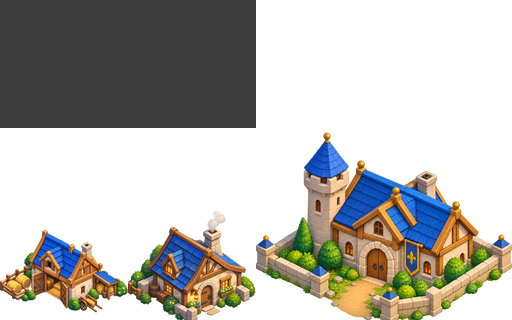
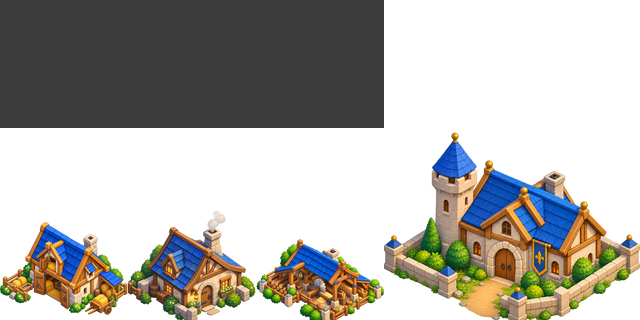
art(city): Sawmill, and a Farm that fits its plot

diff --git a/Docs/art/city/scene.html b/Docs/art/city/scene.html
@@ -46,7 +46,7 @@ code{font-family:ui-monospace,monospace;font-size:.92em}
 </style></head><body class="">
 <header>
   <h1>Kingdom — the isometric city set</h1>
-  <span class="meta">2:1 · tile 128×64 · <strong id="n">3/22</strong> sprites</span>
+  <span class="meta">2:1 · tile 128×64 · <strong id="n">4/22</strong> sprites</span>
   <span class="ctl">
     <button id="m1" aria-pressed="true">Showcase</button>
     <button id="m2" aria-pressed="false">Village</button>
@@ -102,7 +102,7 @@ code{font-family:ui-monospace,monospace;font-size:.92em}
       <figcaption>Sanctum<em>1×1</em></figcaption>
     </figure><figure class="card" style="width:150px">
       <div class="slot" style="width:128px;height:192px">
-        <svg class="grid" width="128" height="192"><path class="t on" d="M64 128l64 32l-64 32l-64 -32z"/></svg><div class="miss" style="left:0px;top:128px;width:128px;height:64px"><span>soon</span></div></div>
+        <svg class="grid" width="128" height="192"><path class="t on" d="M64 128l64 32l-64 32l-64 -32z"/></svg><img src="sawmill_l1.png" alt="Sawmill" width="128" height="192"></div>
       <figcaption>Sawmill<em>1×1</em></figcaption>
     </figure><figure class="card" style="width:150px">
       <div class="slot" style="width:128px;height:192px">
@@ -146,7 +146,7 @@ code{font-family:ui-monospace,monospace;font-size:.92em}
       <figcaption>Well<em>1×1 · decoration</em></figcaption>
     </figure></div>
   <div id="v2" hidden><div class="stage" style="width:1688px;height:824px">
-<svg class="grid" width="1688" height="824"><path class="t" d="M844 300l64 32l-64 32l-64 -32z"/><path class="t" d="M780 332l64 32l-64 32l-64 -32z"/><path class="t" d="M716 364l64 32l-64 32l-64 -32z"/><path class="t on" d="M652 396l64 32l-64 32l-64 -32z"/><path class="t" d="M908 332l64 32l-64 32l-64 -32z"/><path class="t on" d="M844 364l64 32l-64 32l-64 -32z"/><path class="t on" d="M780 396l64 32l-64 32l-64 -32z"/><path class="t on" d="M716 428l64 32l-64 32l-64 -32z"/><path class="t" d="M972 364l64 32l-64 32l-64 -32z"/><path class="t on" d="M908 396l64 32l-64 32l-64 -32z"/><path class="t on" d="M844 428l64 32l-64 32l-64 -32z"/><path class="t on" d="M780 460l64 32l-64 32l-64 -32z"/><path class="t" d="M1036 396l64 32l-64 32l-64 -32z"/><path class="t on" d="M972 428l64 32l-64 32l-64 -32z"/><path class="t on" d="M908 460l64 32l-64 32l-64 -32z"/><path class="t" d="M844 492l64 32l-64 32l-64 -32z"/><path class="t" d="M908 204l64 32l-64 32l-64 -32z"/><path class="t" d="M844 236l64 32l-64 32l-64 -32z"/><path class="t on" d="M780 268l64 32l-64 32l-64 -32z"/><path class="t" d="M972 236l64 32l-64 32l-64 -32z"/><path class="t on" d="M908 268l64 32l-64 32l-64 -32z"/><path class="t" d="M1036 268l64 32l-64 32l-64 -32z"/><path class="t on" d="M972 300l64 32l-64 32l-64 -32z"/><path class="t" d="M1100 300l64 32l-64 32l-64 -32z"/><path class="t on" d="M1036 332l64 32l-64 32l-64 -32z"/><path class="t" d="M1164 332l64 32l-64 32l-64 -32z"/><path class="t" d="M1100 364l64 32l-64 32l-64 -32z"/><path class="t" d="M780 204l64 32l-64 32l-64 -32z"/><path class="t" d="M716 236l64 32l-64 32l-64 -32z"/><path class="t" d="M652 268l64 32l-64 32l-64 -32z"/><path class="t on" d="M716 300l64 32l-64 32l-64 -32z"/><path class="t" d="M588 300l64 32l-64 32l-64 -32z"/><path class="t" d="M652 332l64 32l-64 32l-64 -32z"/><path class="t" d="M1164 396l64 32l-64 32l-64 -32z"/><path class="t on" d="M1100 428l64 32l-64 32l-64 -32z"/><path class="t on" d="M1036 460l64 32l-64 32l-64 -32z"/><path class="t" d="M1228 428l64 32l-64 32l-64 -32z"/><path class="t" d="M1164 460l64 32l-64 32l-64 -32z"/><path class="t" d="M1100 492l64 32l-64 32l-64 -32z"/><path class="t on" d="M972 492l64 32l-64 32l-64 -32z"/><path class="t" d="M908 524l64 32l-64 32l-64 -32z"/><path class="t" d="M1036 524l64 32l-64 32l-64 -32z"/><path class="t" d="M972 556l64 32l-64 32l-64 -32z"/><path class="t on" d="M524 332l64 32l-64 32l-64 -32z"/><path class="t" d="M460 364l64 32l-64 32l-64 -32z"/><path class="t" d="M396 396l64 32l-64 32l-64 -32z"/><path class="t" d="M588 364l64 32l-64 32l-64 -32z"/><path class="t on" d="M524 396l64 32l-64 32l-64 -32z"/><path class="t" d="M460 428l64 32l-64 32l-64 -32z"/><path class="t" d="M588 428l64 32l-64 32l-64 -32z"/><path class="t" d="M524 460l64 32l-64 32l-64 -32z"/><path class="t" d="M716 492l64 32l-64 32l-64 -32z"/><path class="t on" d="M652 524l64 32l-64 32l-64 -32z"/><path class="t on" d="M780 524l64 32l-64 32l-64 -32z"/><path class="t" d="M716 556l64 32l-64 32l-64 -32z"/><path class="t" d="M844 556l64 32l-64 32l-64 -32z"/><path class="t" d="M780 588l64 32l-64 32l-64 -32z"/><path class="t on" d="M460 492l64 32l-64 32l-64 -32z"/><path class="t" d="M652 460l64 32l-64 32l-64 -32z"/><path class="t on" d="M588 492l64 32l-64 32l-64 -32z"/><path class="t" d="M524 524l64 32l-64 32l-64 -32z"/><path class="t" d="M588 556l64 32l-64 32l-64 -32z"/><path class="t on" d="M652 588l64 32l-64 32l-64 -32z"/><path class="t" d="M524 588l64 32l-64 32l-64 -32z"/><path class="t" d="M588 620l64 32l-64 32l-64 -32z"/><path class="t on" d="M716 620l64 32l-64 32l-64 -32z"/><path class="t" d="M652 652l64 32l-64 32l-64 -32z"/><path class="t" d="M844 620l64 32l-64 32l-64 -32z"/><path class="t" d="M780 652l64 32l-64 32l-64 -32z"/><path class="t" d="M716 684l64 32l-64 32l-64 -32z"/><path class="t" d="M396 460l64 32l-64 32l-64 -32z"/><path class="t" d="M332 492l64 32l-64 32l-64 -32z"/><path class="t" d="M396 524l64 32l-64 32l-64 -32z"/><path class="t" d="M460 556l64 32l-64 32l-64 -32z"/><path class="t" d="M1292 460l64 32l-64 32l-64 -32z"/><path class="t on" d="M1228 492l64 32l-64 32l-64 -32z"/><path class="t" d="M1164 524l64 32l-64 32l-64 -32z"/><path class="t" d="M1356 492l64 32l-64 32l-64 -32z"/><path class="t" d="M1292 524l64 32l-64 32l-64 -32z"/><path class="t" d="M1228 556l64 32l-64 32l-64 -32z"/><path class="t on" d="M1100 556l64 32l-64 32l-64 -32z"/><path class="t" d="M1036 588l64 32l-64 32l-64 -32z"/><path class="t" d="M1164 588l64 32l-64 32l-64 -32z"/><path class="t" d="M1100 620l64 32l-64 32l-64 -32z"/><path class="t" d="M908 588l64 32l-64 32l-64 -32z"/><path class="t on" d="M972 620l64 32l-64 32l-64 -32z"/><path class="t" d="M908 652l64 32l-64 32l-64 -32z"/><path class="t" d="M1036 652l64 32l-64 32l-64 -32z"/><path class="t" d="M972 684l64 32l-64 32l-64 -32z"/><path class="t" d="M1292 332l64 32l-64 32l-64 -32z"/><path class="t" d="M1228 364l64 32l-64 32l-64 -32z"/><path class="t" d="M1356 364l64 32l-64 32l-64 -32z"/><path class="t on" d="M1292 396l64 32l-64 32l-64 -32z"/><path class="t" d="M1420 396l64 32l-64 32l-64 -32z"/><path class="t" d="M1356 428l64 32l-64 32l-64 -32z"/><path class="t" d="M460 236l64 32l-64 32l-64 -32z"/><path class="t" d="M396 268l64 32l-64 32l-64 -32z"/><path class="t" d="M332 300l64 32l-64 32l-64 -32z"/><path class="t" d="M524 268l64 32l-64 32l-64 -32z"/><path class="t on" d="M460 300l64 32l-64 32l-64 -32z"/><path class="t" d="M396 332l64 32l-64 32l-64 -32z"/><path class="t" d="M268 332l64 32l-64 32l-64 -32z"/><path class="t" d="M204 364l64 32l-64 32l-64 -32z"/><path class="t" d="M140 396l64 32l-64 32l-64 -32z"/><path class="t" d="M76 428l64 32l-64 32l-64 -32z"/><path class="t" d="M332 364l64 32l-64 32l-64 -32z"/><path class="t on" d="M268 396l64 32l-64 32l-64 -32z"/><path class="t on" d="M204 428l64 32l-64 32l-64 -32z"/><path class="t" d="M140 460l64 32l-64 32l-64 -32z"/><path class="t on" d="M332 428l64 32l-64 32l-64 -32z"/><path class="t on" d="M268 460l64 32l-64 32l-64 -32z"/><path class="t" d="M204 492l64 32l-64 32l-64 -32z"/><path class="t" d="M268 524l64 32l-64 32l-64 -32z"/><path class="t" d="M1484 428l64 32l-64 32l-64 -32z"/><path class="t on" d="M1420 460l64 32l-64 32l-64 -32z"/><path class="t" d="M1548 460l64 32l-64 32l-64 -32z"/><path class="t on" d="M1484 492l64 32l-64 32l-64 -32z"/><path class="t" d="M1420 524l64 32l-64 32l-64 -32z"/><path class="t" d="M1612 492l64 32l-64 32l-64 -32z"/><path class="t" d="M1548 524l64 32l-64 32l-64 -32z"/><path class="t" d="M1484 556l64 32l-64 32l-64 -32z"/></svg><figure style="left:844px;top:140px;width:128px"><img src="housing_l1.png" alt="Housing" width="128" height="192"></figure><figure style="left:716px;top:140px;width:128px"><img src="housing_l1.png" alt="Housing" width="128" height="192"></figure><figure style="left:908px;top:172px;width:128px"><img src="housing_l1.png" alt="Housing" width="128" height="192"></figure><figure style="left:652px;top:172px;width:128px"><img src="housing_l1.png" alt="Housing" width="128" height="192"></figure><div class="miss" style="left:396px;top:300px;width:192px;height:96px"><span>Docks</span></div><figure style="left:972px;top:204px;width:128px"><img src="housing_l1.png" alt="Housing" width="128" height="192"></figure><figure style="left:716px;top:172px;width:256px"><img src="townhall_l1.png" alt="Townhall" width="256" height="320"></figure><div class="miss" style="left:460px;top:396px;width:128px;height:64px"><span>Quarry</span></div><div class="miss" style="left:1228px;top:396px;width:128px;height:64px"><span>Rune Carver</span></div><div class="miss" style="left:140px;top:396px;width:256px;height:128px"><span>Shrine</span></div><div class="miss" style="left:588px;top:396px;width:128px;height:64px"><span>Garden</span></div><figure style="left:1036px;top:300px;width:128px"><img src="farm_l1.png" alt="Farm" width="128" height="192"></figure><div class="miss" style="left:844px;top:428px;width:256px;height:128px"><span>Plaza</span></div><div class="miss" style="left:652px;top:428px;width:128px;height:64px"><span>Statue</span></div><div class="miss" style="left:1356px;top:460px;width:192px;height:96px"><span>Orchard</span></div><div class="miss" style="left:716px;top:460px;width:128px;height:64px"><span>Well</span></div><div class="miss" style="left:908px;top:492px;width:128px;height:64px"><span>Sawmill</span></div><div class="miss" style="left:524px;top:492px;width:128px;height:64px"><span>Barracks</span></div><div class="miss" style="left:396px;top:492px;width:128px;height:64px"><span>Infirmary</span></div><div class="miss" style="left:1164px;top:492px;width:128px;height:64px"><span>Carpenter</span></div><div class="miss" style="left:716px;top:524px;width:128px;height:64px"><span>Sanctum</span></div><div class="miss" style="left:588px;top:524px;width:128px;height:64px"><span>Spear Hall</span></div><div class="miss" style="left:1036px;top:556px;width:128px;height:64px"><span>Mason's Yard</span></div><div class="miss" style="left:588px;top:588px;width:128px;height:64px"><span>Shooting Grounds</span></div><div class="miss" style="left:652px;top:620px;width:128px;height:64px"><span>Stables</span></div><div class="miss" style="left:908px;top:620px;width:128px;height:64px"><span>Smelter</span></div></div></div>
+<svg class="grid" width="1688" height="824"><path class="t" d="M844 300l64 32l-64 32l-64 -32z"/><path class="t" d="M780 332l64 32l-64 32l-64 -32z"/><path class="t" d="M716 364l64 32l-64 32l-64 -32z"/><path class="t on" d="M652 396l64 32l-64 32l-64 -32z"/><path class="t" d="M908 332l64 32l-64 32l-64 -32z"/><path class="t on" d="M844 364l64 32l-64 32l-64 -32z"/><path class="t on" d="M780 396l64 32l-64 32l-64 -32z"/><path class="t on" d="M716 428l64 32l-64 32l-64 -32z"/><path class="t" d="M972 364l64 32l-64 32l-64 -32z"/><path class="t on" d="M908 396l64 32l-64 32l-64 -32z"/><path class="t on" d="M844 428l64 32l-64 32l-64 -32z"/><path class="t on" d="M780 460l64 32l-64 32l-64 -32z"/><path class="t" d="M1036 396l64 32l-64 32l-64 -32z"/><path class="t on" d="M972 428l64 32l-64 32l-64 -32z"/><path class="t on" d="M908 460l64 32l-64 32l-64 -32z"/><path class="t" d="M844 492l64 32l-64 32l-64 -32z"/><path class="t" d="M908 204l64 32l-64 32l-64 -32z"/><path class="t" d="M844 236l64 32l-64 32l-64 -32z"/><path class="t on" d="M780 268l64 32l-64 32l-64 -32z"/><path class="t" d="M972 236l64 32l-64 32l-64 -32z"/><path class="t on" d="M908 268l64 32l-64 32l-64 -32z"/><path class="t" d="M1036 268l64 32l-64 32l-64 -32z"/><path class="t on" d="M972 300l64 32l-64 32l-64 -32z"/><path class="t" d="M1100 300l64 32l-64 32l-64 -32z"/><path class="t on" d="M1036 332l64 32l-64 32l-64 -32z"/><path class="t" d="M1164 332l64 32l-64 32l-64 -32z"/><path class="t" d="M1100 364l64 32l-64 32l-64 -32z"/><path class="t" d="M780 204l64 32l-64 32l-64 -32z"/><path class="t" d="M716 236l64 32l-64 32l-64 -32z"/><path class="t" d="M652 268l64 32l-64 32l-64 -32z"/><path class="t on" d="M716 300l64 32l-64 32l-64 -32z"/><path class="t" d="M588 300l64 32l-64 32l-64 -32z"/><path class="t" d="M652 332l64 32l-64 32l-64 -32z"/><path class="t" d="M1164 396l64 32l-64 32l-64 -32z"/><path class="t on" d="M1100 428l64 32l-64 32l-64 -32z"/><path class="t on" d="M1036 460l64 32l-64 32l-64 -32z"/><path class="t" d="M1228 428l64 32l-64 32l-64 -32z"/><path class="t" d="M1164 460l64 32l-64 32l-64 -32z"/><path class="t" d="M1100 492l64 32l-64 32l-64 -32z"/><path class="t on" d="M972 492l64 32l-64 32l-64 -32z"/><path class="t" d="M908 524l64 32l-64 32l-64 -32z"/><path class="t" d="M1036 524l64 32l-64 32l-64 -32z"/><path class="t" d="M972 556l64 32l-64 32l-64 -32z"/><path class="t on" d="M524 332l64 32l-64 32l-64 -32z"/><path class="t" d="M460 364l64 32l-64 32l-64 -32z"/><path class="t" d="M396 396l64 32l-64 32l-64 -32z"/><path class="t" d="M588 364l64 32l-64 32l-64 -32z"/><path class="t on" d="M524 396l64 32l-64 32l-64 -32z"/><path class="t" d="M460 428l64 32l-64 32l-64 -32z"/><path class="t" d="M588 428l64 32l-64 32l-64 -32z"/><path class="t" d="M524 460l64 32l-64 32l-64 -32z"/><path class="t" d="M716 492l64 32l-64 32l-64 -32z"/><path class="t on" d="M652 524l64 32l-64 32l-64 -32z"/><path class="t on" d="M780 524l64 32l-64 32l-64 -32z"/><path class="t" d="M716 556l64 32l-64 32l-64 -32z"/><path class="t" d="M844 556l64 32l-64 32l-64 -32z"/><path class="t" d="M780 588l64 32l-64 32l-64 -32z"/><path class="t on" d="M460 492l64 32l-64 32l-64 -32z"/><path class="t" d="M652 460l64 32l-64 32l-64 -32z"/><path class="t on" d="M588 492l64 32l-64 32l-64 -32z"/><path class="t" d="M524 524l64 32l-64 32l-64 -32z"/><path class="t" d="M588 556l64 32l-64 32l-64 -32z"/><path class="t on" d="M652 588l64 32l-64 32l-64 -32z"/><path class="t" d="M524 588l64 32l-64 32l-64 -32z"/><path class="t" d="M588 620l64 32l-64 32l-64 -32z"/><path class="t on" d="M716 620l64 32l-64 32l-64 -32z"/><path class="t" d="M652 652l64 32l-64 32l-64 -32z"/><path class="t" d="M844 620l64 32l-64 32l-64 -32z"/><path class="t" d="M780 652l64 32l-64 32l-64 -32z"/><path class="t" d="M716 684l64 32l-64 32l-64 -32z"/><path class="t" d="M396 460l64 32l-64 32l-64 -32z"/><path class="t" d="M332 492l64 32l-64 32l-64 -32z"/><path class="t" d="M396 524l64 32l-64 32l-64 -32z"/><path class="t" d="M460 556l64 32l-64 32l-64 -32z"/><path class="t" d="M1292 460l64 32l-64 32l-64 -32z"/><path class="t on" d="M1228 492l64 32l-64 32l-64 -32z"/><path class="t" d="M1164 524l64 32l-64 32l-64 -32z"/><path class="t" d="M1356 492l64 32l-64 32l-64 -32z"/><path class="t" d="M1292 524l64 32l-64 32l-64 -32z"/><path class="t" d="M1228 556l64 32l-64 32l-64 -32z"/><path class="t on" d="M1100 556l64 32l-64 32l-64 -32z"/><path class="t" d="M1036 588l64 32l-64 32l-64 -32z"/><path class="t" d="M1164 588l64 32l-64 32l-64 -32z"/><path class="t" d="M1100 620l64 32l-64 32l-64 -32z"/><path class="t" d="M908 588l64 32l-64 32l-64 -32z"/><path class="t on" d="M972 620l64 32l-64 32l-64 -32z"/><path class="t" d="M908 652l64 32l-64 32l-64 -32z"/><path class="t" d="M1036 652l64 32l-64 32l-64 -32z"/><path class="t" d="M972 684l64 32l-64 32l-64 -32z"/><path class="t" d="M1292 332l64 32l-64 32l-64 -32z"/><path class="t" d="M1228 364l64 32l-64 32l-64 -32z"/><path class="t" d="M1356 364l64 32l-64 32l-64 -32z"/><path class="t on" d="M1292 396l64 32l-64 32l-64 -32z"/><path class="t" d="M1420 396l64 32l-64 32l-64 -32z"/><path class="t" d="M1356 428l64 32l-64 32l-64 -32z"/><path class="t" d="M460 236l64 32l-64 32l-64 -32z"/><path class="t" d="M396 268l64 32l-64 32l-64 -32z"/><path class="t" d="M332 300l64 32l-64 32l-64 -32z"/><path class="t" d="M524 268l64 32l-64 32l-64 -32z"/><path class="t on" d="M460 300l64 32l-64 32l-64 -32z"/><path class="t" d="M396 332l64 32l-64 32l-64 -32z"/><path class="t" d="M268 332l64 32l-64 32l-64 -32z"/><path class="t" d="M204 364l64 32l-64 32l-64 -32z"/><path class="t" d="M140 396l64 32l-64 32l-64 -32z"/><path class="t" d="M76 428l64 32l-64 32l-64 -32z"/><path class="t" d="M332 364l64 32l-64 32l-64 -32z"/><path class="t on" d="M268 396l64 32l-64 32l-64 -32z"/><path class="t on" d="M204 428l64 32l-64 32l-64 -32z"/><path class="t" d="M140 460l64 32l-64 32l-64 -32z"/><path class="t on" d="M332 428l64 32l-64 32l-64 -32z"/><path class="t on" d="M268 460l64 32l-64 32l-64 -32z"/><path class="t" d="M204 492l64 32l-64 32l-64 -32z"/><path class="t" d="M268 524l64 32l-64 32l-64 -32z"/><path class="t" d="M1484 428l64 32l-64 32l-64 -32z"/><path class="t on" d="M1420 460l64 32l-64 32l-64 -32z"/><path class="t" d="M1548 460l64 32l-64 32l-64 -32z"/><path class="t on" d="M1484 492l64 32l-64 32l-64 -32z"/><path class="t" d="M1420 524l64 32l-64 32l-64 -32z"/><path class="t" d="M1612 492l64 32l-64 32l-64 -32z"/><path class="t" d="M1548 524l64 32l-64 32l-64 -32z"/><path class="t" d="M1484 556l64 32l-64 32l-64 -32z"/></svg><figure style="left:844px;top:140px;width:128px"><img src="housing_l1.png" alt="Housing" width="128" height="192"></figure><figure style="left:716px;top:140px;width:128px"><img src="housing_l1.png" alt="Housing" width="128" height="192"></figure><figure style="left:908px;top:172px;width:128px"><img src="housing_l1.png" alt="Housing" width="128" height="192"></figure><figure style="left:652px;top:172px;width:128px"><img src="housing_l1.png" alt="Housing" width="128" height="192"></figure><div class="miss" style="left:396px;top:300px;width:192px;height:96px"><span>Docks</span></div><figure style="left:972px;top:204px;width:128px"><img src="housing_l1.png" alt="Housing" width="128" height="192"></figure><figure style="left:716px;top:172px;width:256px"><img src="townhall_l1.png" alt="Townhall" width="256" height="320"></figure><div class="miss" style="left:460px;top:396px;width:128px;height:64px"><span>Quarry</span></div><div class="miss" style="left:1228px;top:396px;width:128px;height:64px"><span>Rune Carver</span></div><div class="miss" style="left:140px;top:396px;width:256px;height:128px"><span>Shrine</span></div><div class="miss" style="left:588px;top:396px;width:128px;height:64px"><span>Garden</span></div><figure style="left:1036px;top:300px;width:128px"><img src="farm_l1.png" alt="Farm" width="128" height="192"></figure><div class="miss" style="left:844px;top:428px;width:256px;height:128px"><span>Plaza</span></div><div class="miss" style="left:652px;top:428px;width:128px;height:64px"><span>Statue</span></div><div class="miss" style="left:1356px;top:460px;width:192px;height:96px"><span>Orchard</span></div><div class="miss" style="left:716px;top:460px;width:128px;height:64px"><span>Well</span></div><figure style="left:908px;top:364px;width:128px"><img src="sawmill_l1.png" alt="Sawmill" width="128" height="192"></figure><div class="miss" style="left:524px;top:492px;width:128px;height:64px"><span>Barracks</span></div><div class="miss" style="left:396px;top:492px;width:128px;height:64px"><span>Infirmary</span></div><div class="miss" style="left:1164px;top:492px;width:128px;height:64px"><span>Carpenter</span></div><div class="miss" style="left:716px;top:524px;width:128px;height:64px"><span>Sanctum</span></div><div class="miss" style="left:588px;top:524px;width:128px;height:64px"><span>Spear Hall</span></div><div class="miss" style="left:1036px;top:556px;width:128px;height:64px"><span>Mason's Yard</span></div><div class="miss" style="left:588px;top:588px;width:128px;height:64px"><span>Shooting Grounds</span></div><div class="miss" style="left:652px;top:620px;width:128px;height:64px"><span>Stables</span></div><div class="miss" style="left:908px;top:620px;width:128px;height:64px"><span>Smelter</span></div></div></div>
 </main>
 <footer>
   Every sprite is placed with the renderer's own formula —
